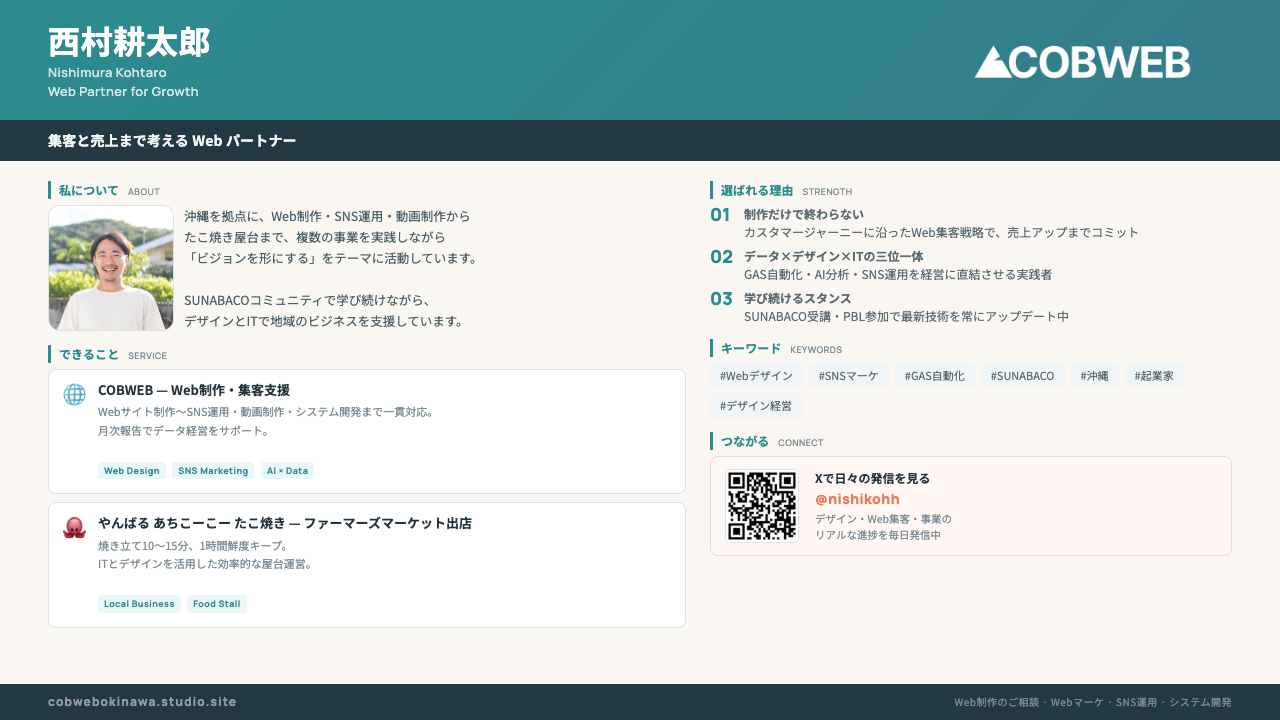
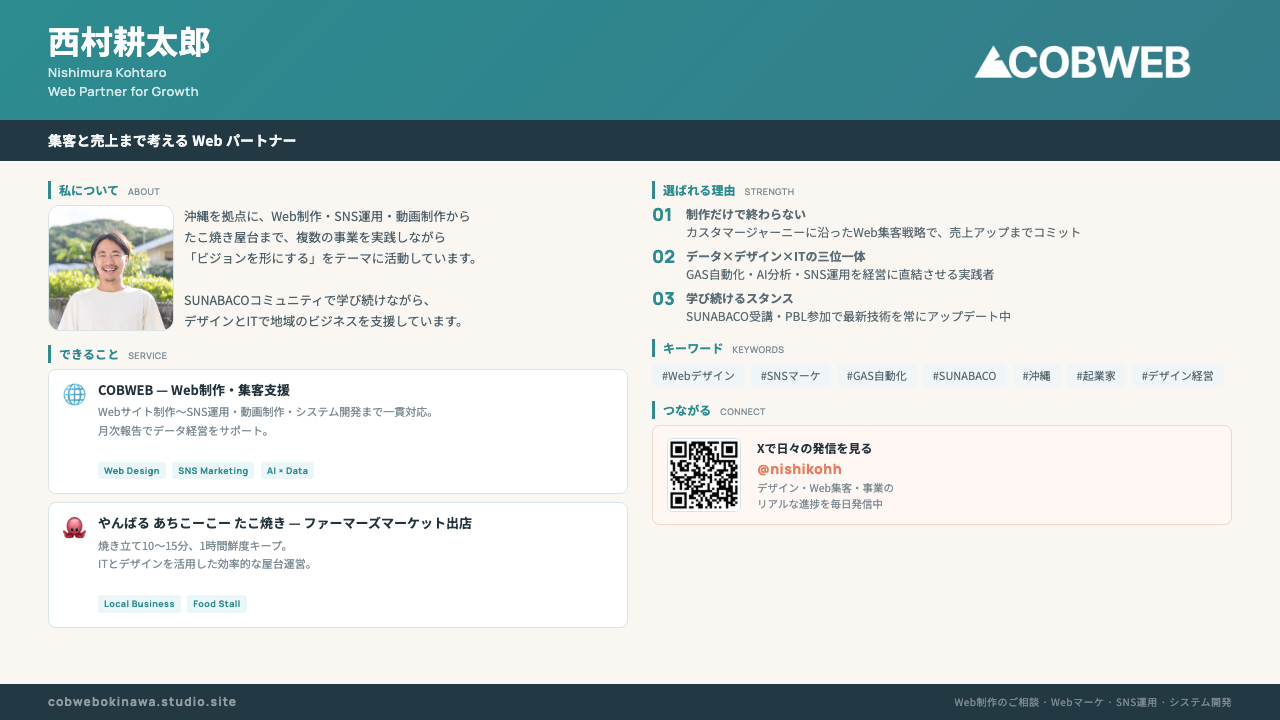
Refactor layout styles in Marp presentation
- Adjusted flex properties for .col-left and .col-right to improve layout consistency.
- Updated binary image file to reflect changes in the presentation.

Changed region(s): [[0.5, 0.2444, 0.875, 0.4889], [0.5, 0.5194, 0.8125, 0.7639], [0.8438, 0.5194, 0.9375, 0.55]]

diff --git a/自己紹介カード Marpデザイン.md b/自己紹介カード Marpデザイン.md
@@ -120,14 +120,14 @@ style: |
   }
 
   .col-left {
-    flex: 1.1;
+    flex: 1;
     display: flex;
     flex-direction: column;
     gap: 14px;
   }
 
   .col-right {
-    flex: 0.9;
+    flex: 1;
     display: flex;
     flex-direction: column;
     gap: 14px;
